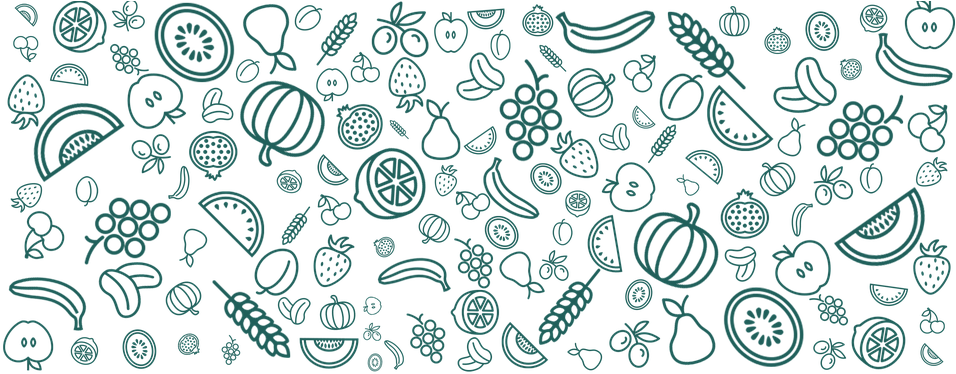
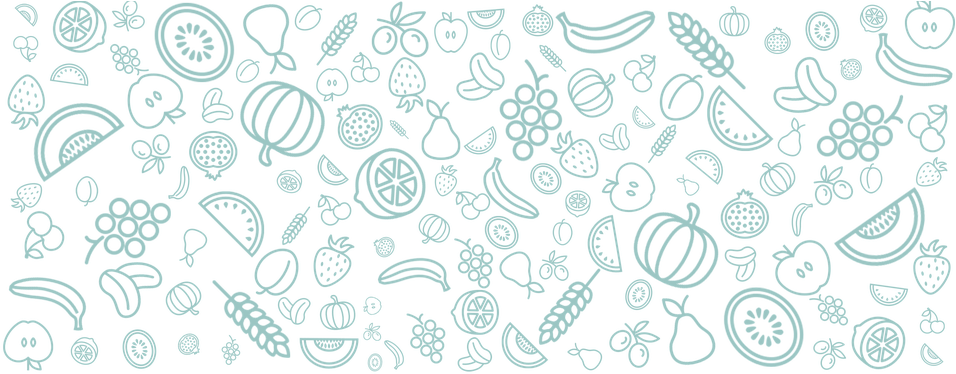
style dashboard

Changed region(s): [[0.0, 0.0, 1.0, 1.0]]

diff --git a/client/js/content.js b/client/js/content.js
@@ -117,6 +117,7 @@ function renderRegisterForm() {
 async function renderMain() {
     renderNavbar();
     renderDashboard();
+    renderFooter();
 }
 
 function renderNavbar() {
@@ -152,11 +153,14 @@ function renderNavbar() {
 }
 
 function renderDashboard() {
-    main.innerHTML = ''
+    main.innerHTML = '';
     showDashboardTitle();
-    // showTrackNewHabitForm();
-    // showAllHabits();
     showDashboard();
+}
+
+function renderFooter() {
+    footer.innerHTML = '';
+    
 }
 
 function showDashboardTitle() {
@@ -166,11 +170,15 @@ function showDashboardTitle() {
     dashboard.classList.add('dashboard');
     main.appendChild(dashboard);
 
+    const dashboardContainer = document.createElement('div');
+    dashboardContainer.classList.add('dash-container');
+    dashboard.appendChild(dashboardContainer);
+
     const dashboardGrid = document.createElement('div');
     dashboardGrid.classList.add('dash-row');
     dashboardGrid.classList.add('row');
     dashboardGrid.classList.add('justify-content-between');
-    dashboard.appendChild(dashboardGrid);
+    dashboardContainer.appendChild(dashboardGrid);
     
     const dashboardTitle = document.createElement('div');
     dashboardTitle.classList.add('col-md-9');
@@ -188,7 +196,7 @@ function showDashboardTitle() {
     const divContainer= document.createElement('div');
     divContainer.classList.add('container');
     divContainer.classList.add('habit-cont');
-    document.querySelector('.dashboard').appendChild(divContainer);
+    dashboardContainer.appendChild(divContainer);
 }
 
 function showDashboard() {

diff --git a/client/css/style.css b/client/css/style.css
@@ -3,21 +3,6 @@ body {
     font-family: 'Roboto', sans-serif;
 }
 
-/* nav */
-
-/* Control the left side */
-   /* .left {
-    left: 0; */
-    /* margin-left: 5%; */
-  /* } */
-  
-  /* Control the right side */
-  /* .right {
-    right: 0;
-    margin-left: 50px;
-  } */
-  
-
   .centered img {
     width: 560px;
     text-align: center;
@@ -117,19 +102,34 @@ body {
 /* navbar */
 .navbar {
     background-color: #316879;
-    padding-left: 100px;
-    padding-right: 100px;
+    padding-left: 15%;
+    padding-right: 15%;
 }
 
+.navbar-brand, .nav-item, .navbar-text {
+    font-size: 1.5rem;
+} 
+
+.navbar-text {
+    padding-right: 10px;
+}
+
+
 .dashboard {
-    /* background: url('./helthyBackground.png') repeat; */
-    margin-left: 7%;
-    margin-right: 7%;
+    background-image: url("./helthyBackgroundOpacity.png") !important;
+    background-repeat: repeat;
 }
 
 /* dashboard */
-.dash-row {
-    margin-top: 30px;
+.dash-row  {
+    /* margin-top: 30px; */
+    
+    padding-top: 30px;
+}
+
+.dash-container {
+    margin-left: 15%;
+    margin-right: 15%;
 }
 
 .label-dash {
@@ -199,6 +199,7 @@ body {
     color: #316879;
     font-weight: bold;
     line-height: 30px;
+    padding-top: 10px;
 }
 .anchor-streak {
     font-style: italic;
@@ -236,7 +237,7 @@ body {
 
   .delCross {
     position: absolute;
-    top: -260px;
+    top: -255px;
     right: -210px;
     font-size: 1.5rem;
     font-weight: bold;

diff --git a/client/index.html b/client/index.html
@@ -15,12 +15,14 @@
 </head>
 <body>
     <nav></nav>
-    <main class=container> </main>
+    
+    <main> </main>
+
+    <footer></footer>
 
     <script src='js/auth.js'></script>
     <script src='js/requests.js'></script>
     <script src='js/content.js'></script> 
-    <!-- <script src='static/js/layout.js'></script> -->
     <script src='js/index.js'></script> 
     <script src='https://cdn.jsdelivr.net/npm/jwt-decode@1.5.1/build/jwt-decode.min.js'></script>
     <script src="https://cdn.jsdelivr.net/npm/bootstrap@5.1.3/dist/js/bootstrap.bundle.min.js" integrity="sha384-ka7Sk0Gln4gmtz2MlQnikT1wXgYsOg+OMhuP+IlRH9sENBO0LRn5q+8nbTov4+1p" crossorigin="anonymous"></script>
